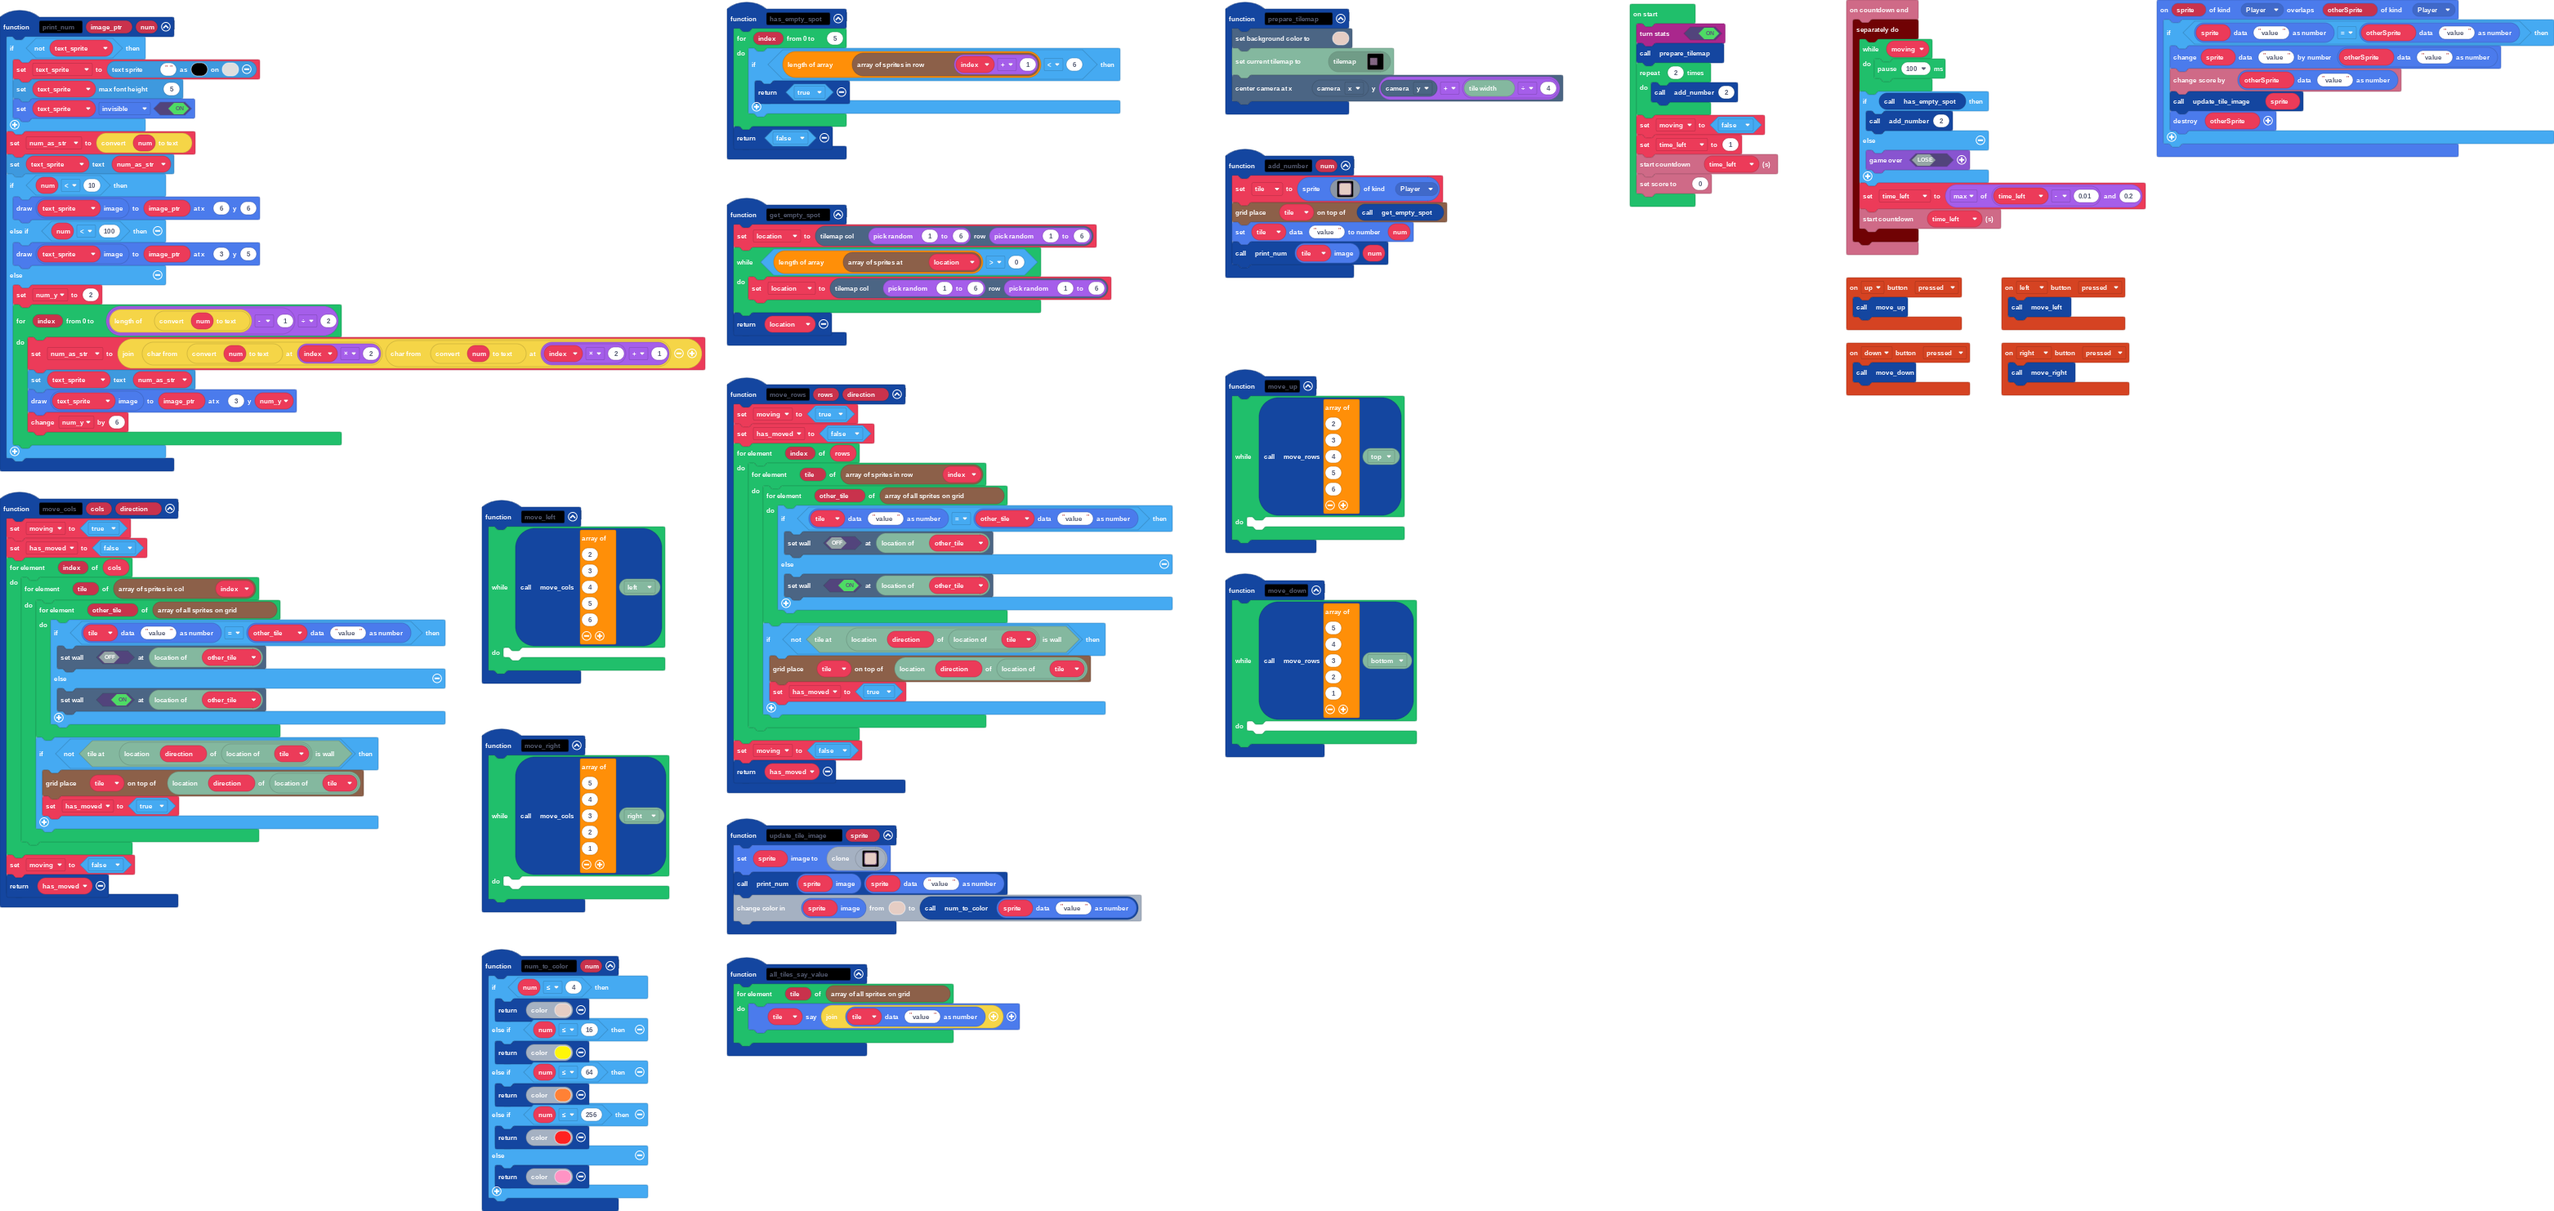
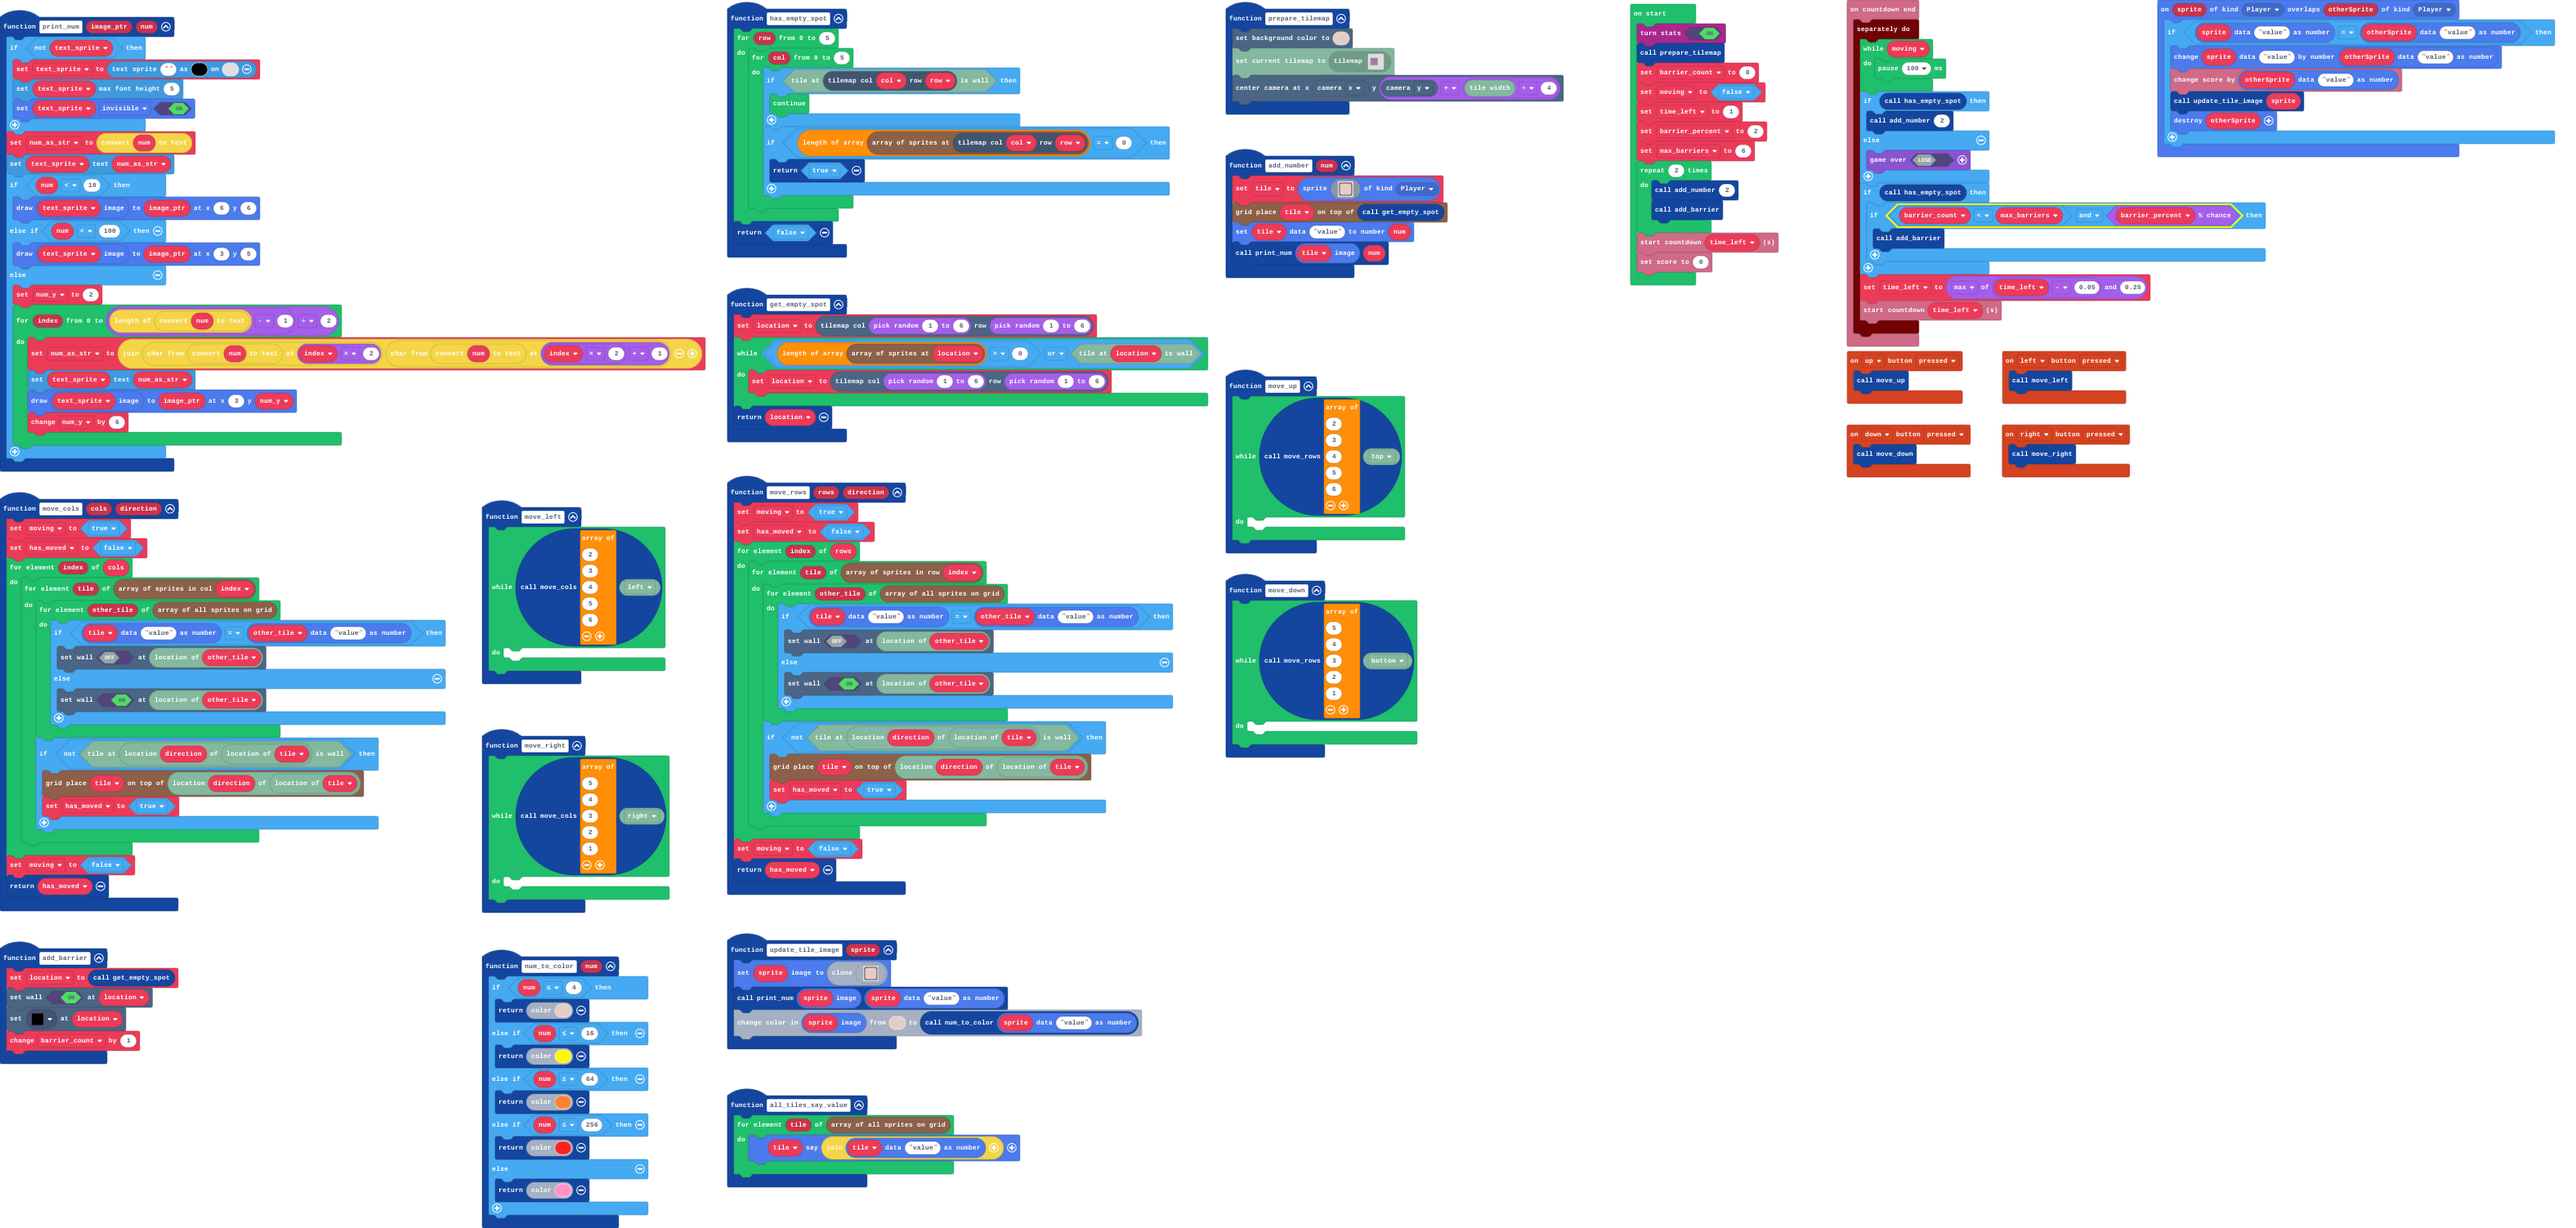
Can add barriers

Changed region(s): [[0.0, 0.0, 1.0, 0.9926]]

diff --git a/main.ts b/main.ts
@@ -56,7 +56,7 @@ controller.left.onEvent(ControllerButtonEvent.Pressed, function () {
 })
 function get_empty_spot () {
     location = tiles.getTileLocation(randint(1, 6), randint(1, 6))
-    while (grid.getSprites(location).length > 0) {
+    while (grid.getSprites(location).length > 0 || tiles.tileIsWall(location)) {
         location = tiles.getTileLocation(randint(1, 6), randint(1, 6))
     }
     return location
@@ -92,7 +92,12 @@ info.onCountdownEnd(function () {
         } else {
             game.over(false)
         }
-        time_left = Math.max(time_left - 0.01, 0.2)
+        if (has_empty_spot()) {
+            if (barrier_count < max_barriers && Math.percentChance(barrier_percent)) {
+                add_barrier()
+            }
+        }
+        time_left = Math.max(time_left - 0.05, 0.25)
         info.startCountdown(time_left)
     })
 })
@@ -137,15 +142,26 @@ sprites.onOverlap(SpriteKind.Player, SpriteKind.Player, function (sprite, otherS
         otherSprite.destroy()
     }
 })
+function add_barrier () {
+    location = get_empty_spot()
+    tiles.setWallAt(location, true)
+    tiles.setTileAt(location, assets.tile`barrier`)
+    barrier_count += 1
+}
 function update_tile_image (sprite: Sprite) {
     sprite.setImage(assets.image`tile`.clone())
     print_num(sprite.image, sprites.readDataNumber(sprite, "value"))
     sprite.image.replace(13, num_to_color(sprites.readDataNumber(sprite, "value")))
 }
 function has_empty_spot () {
-    for (let index = 0; index <= 5; index++) {
-        if (grid.rowSprites(index + 1).length < 6) {
-            return true
+    for (let row = 0; row <= 5; row++) {
+        for (let col = 0; col <= 5; col++) {
+            if (tiles.tileIsWall(tiles.getTileLocation(col, row))) {
+                continue;
+            }
+            if (grid.getSprites(tiles.getTileLocation(col, row)).length == 0) {
+                return true
+            }
         }
     }
     return false
@@ -195,14 +211,21 @@ let text_sprite: TextSprite = null
 let tile: Sprite = null
 let location: tiles.Location = null
 let has_moved = false
+let max_barriers = 0
+let barrier_percent = 0
 let time_left = 0
 let moving = false
+let barrier_count = 0
 stats.turnStats(true)
 prepare_tilemap()
-for (let index = 0; index < 2; index++) {
-    add_number(2)
-}
+barrier_count = 0
 moving = false
 time_left = 1
+barrier_percent = 2
+max_barriers = 6
+for (let index = 0; index < 2; index++) {
+    add_number(2)
+    add_barrier()
+}
 info.startCountdown(time_left)
 info.setScore(0)

diff --git a/tilemap.g.ts b/tilemap.g.ts
@@ -10,6 +10,8 @@ namespace myTiles {
     export const tile2 = image.ofBuffer(hex``);
     //% fixedInstance jres blockIdentity=images._tile
     export const tile3 = image.ofBuffer(hex``);
+    //% fixedInstance jres blockIdentity=images._tile
+    export const tile4 = image.ofBuffer(hex``);
 
     helpers._registerFactory("tilemap", function(name: string) {
         switch(helpers.stringTrim(name)) {
@@ -60,7 +62,7 @@ namespace myTiles {
 2 . . . . . . 2 2 2 2 
 2 . . . . . . 2 2 2 2 
 2 2 2 2 2 2 2 2 2 2 2 
-`, [myTiles.transparency16,myTiles.tile2,myTiles.tile3], TileScale.Sixteen);
+`, [myTiles.transparency16,myTiles.tile2,myTiles.tile3,myTiles.tile4], TileScale.Sixteen);
         }
         return null;
     })
@@ -75,6 +77,8 @@ namespace myTiles {
             case "tile2":return tile2;
             case "alt_tile":
             case "tile3":return tile3;
+            case "barrier":
+            case "tile4":return tile4;
         }
         return null;
     })
